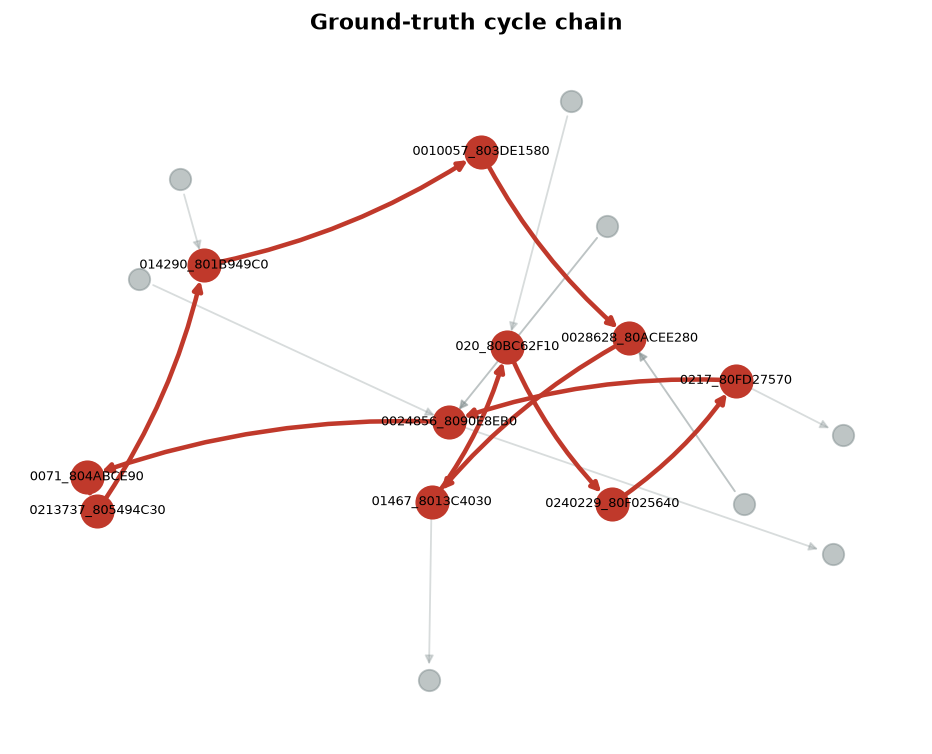
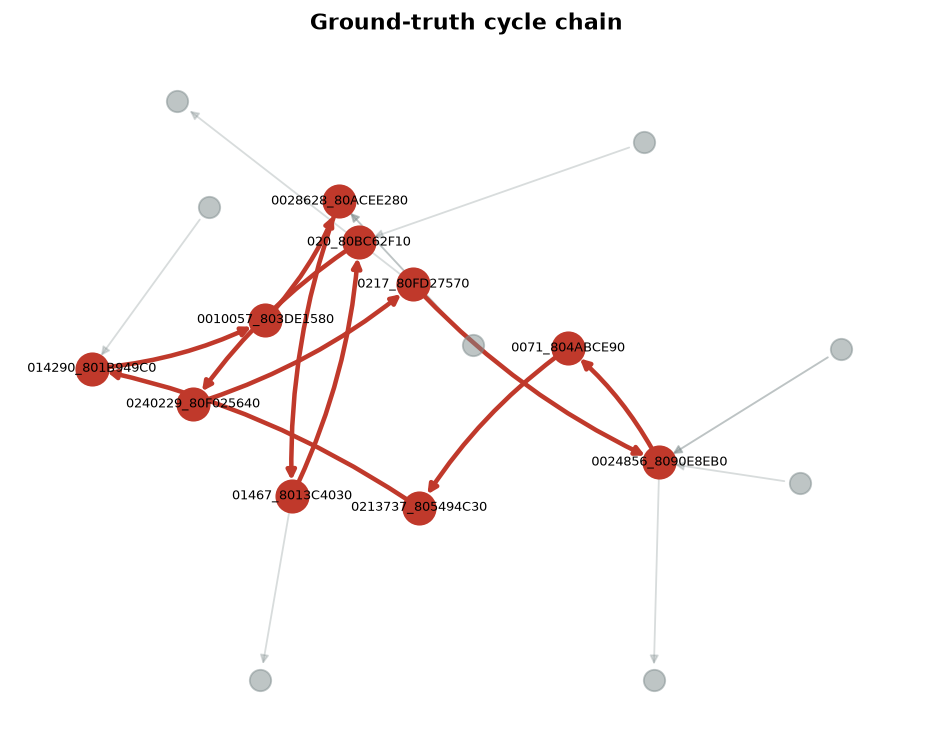
docs: sync README metrics with validation-thresholded results; refresh artifacts

diff --git a/README.md b/README.md
@@ -67,18 +67,22 @@ export KAGGLE_USERNAME=... KAGGLE_KEY=...   # optional: enables data download
 
 ## Results
 
-Test set: 75,000 strictly-future edges, 2,304 illicit. Thresholds tuned for
-best minority-F1; alert-reduction reported at fixed recall = 0.50.
+Test set: 75,000 strictly-future edges, 2,304 illicit. Temporal tri-split
+(train / validation / test); each model's F1 threshold is chosen **on the
+validation slice, never on test**. Alert-reduction reported at fixed
+recall = 0.50.
 
 | Model     | Minority-F1 | PR-AUC | Precision@100 | Alert reduction |
 |-----------|:-----------:|:------:|:-------------:|:---------------:|
-| **LightGBM** | **0.419**   | **0.379** | **1.00**      | **91.9%**       |
-| GNN       | 0.248       | 0.189  | 0.71          | 86.5%           |
-| Random    | 0.061       | 0.033  | 0.07          | 52.0%           |
+| **LightGBM** | **0.409**   | **0.368** | **1.00**      | **91.3%**       |
+| GNN       | 0.223       | 0.238  | 1.00          | 85.9%           |
+| Random    | 0.060       | 0.031  | 0.06          | 49.8%           |
 
-The LightGBM baseline leads on this bounded sample; the GNN adds structural
-signal and both dramatically outperform random triage. At recall 0.50 the
-baseline lets analysts ignore ~92% of traffic.
+The LightGBM baseline leads on this bounded sample; the GNN (standardised
+features, LayerNorm, early stopping, leakage-safe inductive inference) adds
+structural signal — its top-100 alerts are all true positives — and both
+dramatically outperform random triage. At recall 0.50 the baseline lets
+analysts ignore ~91% of traffic.
 
 > **Prevalence disclosure.** The MVP works on a bounded subsample and **keeps
 > all positives**, inflating illicit prevalence to ~2% versus the true ~0.10%